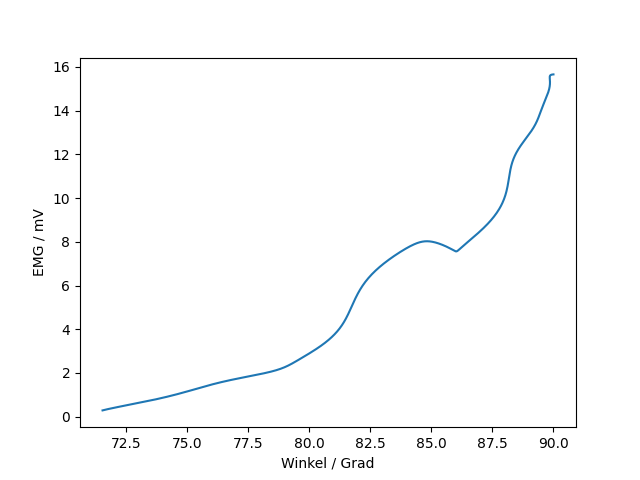
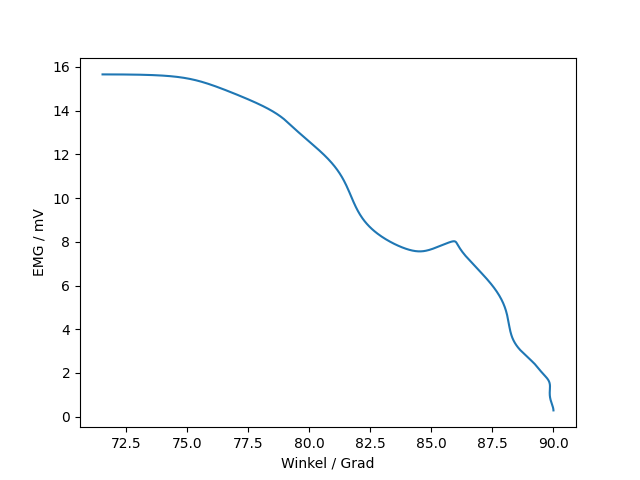
90 will nicht an den Anfanggggggggg

diff --git a/main.py b/main.py
@@ -161,8 +161,10 @@ for person in range(3):
         directory = os.path.join(directory, "result")
         path = os.path.join(directory, "result_angle_emg_" + str(person + 1) + "_" + str(dataset + 1) + ".png")
 
+        print(data_hamstring[person][dataset])
+
         plt.figure()
-        plt.plot(np.flip(data_hamstring[person][dataset]["angle"]), data_hamstring[person][dataset]["emg"])
+        plt.plot(data_hamstring[person][dataset]["angle"], data_hamstring[person][dataset]["emg"])
         plt.xlabel("Winkel / Grad")
         plt.ylabel("EMG / mV")
         plt.savefig(path)
